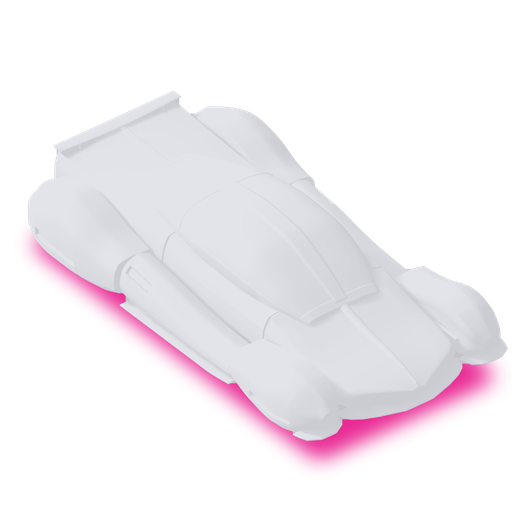
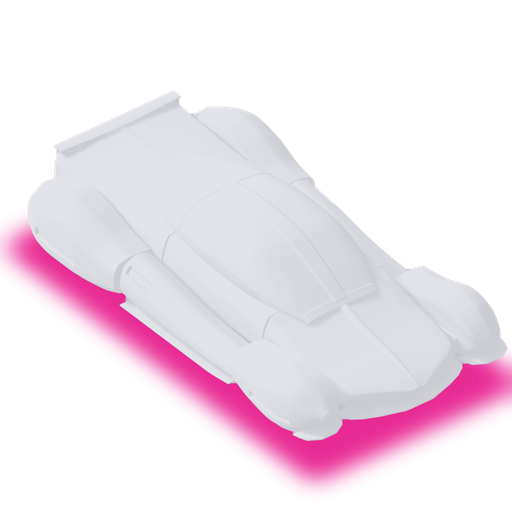
garage: wider Exotic underglow diagram; shop list ties break by price; Front Body and Rear Body first in the rails (installed in v3)

Changed region(s): [[0.0, 0.4062, 1.0, 0.9688]]

diff --git a/scripts/exotic_category/ui_shop_order/build.py b/scripts/exotic_category/ui_shop_order/build.py
@@ -1,0 +1,58 @@
+"""Shop list order and rail order for body parts: builds the after-source and the guarded installer.
+
+    py -3 scripts/exotic_category/ui_shop_order/build.py
+
+Independent of the GarageUI chain (ui_artwork, ui_dealership, ui_underglow): it changes another script.
+
+What changes:
+  GarageModuleCardViewModel  the shop list breaks a tie by Price before id, so the standard, GT and EVO
+                             versions of a body part read cheapest first (mesh/INTEGRATION.md, "Body parts
+                             behave like core parts"). Core modules are unaffected: their variants already
+                             differ by VariantOrder, which is compared first.
+  Config                     ModuleArtwork.FrontBody SortOrder 32 and RearBody SortOrder 34, so the Build and
+                             Customise rails list Front Body and Rear Body before the engines. Only Exotic has
+                             those slots. ROLLBACK removes the two attributes, which returns the code defaults
+                             (72 and 74), the values they had before.
+"""
+import io
+import json
+import os
+
+HERE = os.path.dirname(os.path.abspath(__file__))
+BEFORE = os.path.join(HERE, "..", "stage_a", "client", "after", "GarageModuleCardViewModel.lua")
+PLACE_ID = 93959280828322
+OLD = ("\t\tif variantOrder[a.Variant]~=variantOrder[b.Variant] then return variantOrder[a.Variant]<variantOrder[b.Variant] end\n"
+       "\t\treturn a.Id<b.Id\n\tend)\n\treturn rows\nend\n\nreturn ViewModel")
+NEW = ("\t\tif variantOrder[a.Variant]~=variantOrder[b.Variant] then return variantOrder[a.Variant]<variantOrder[b.Variant] end\n"
+       "\t\tif a.Price~=b.Price then return a.Price<b.Price end\n"
+       "\t\treturn a.Id<b.Id\n\tend)\n\treturn rows\nend\n\nreturn ViewModel")
+
+
+def djb2(text):
+    x = 5381
+    for b in text.encode("utf-8"):
+        x = (x * 33 + b) % 4294967296
+    return x
+
+
+def main():
+    before = io.open(BEFORE, encoding="utf-8", newline="").read()
+    if before.count(OLD) != 1:
+        raise SystemExit("anchor found %d times" % before.count(OLD))
+    after = before.replace(OLD, NEW)
+    for folder, text in (("before", before), ("after", after)):
+        os.makedirs(os.path.join(HERE, folder), exist_ok=True)
+        io.open(os.path.join(HERE, folder, "GarageModuleCardViewModel.lua"), "w", encoding="utf-8", newline="").write(text)
+    data = json.dumps({"placeId": PLACE_ID, "base": "scripts/exotic_category/ui_shop_order/",
+                       "scripts": {"GarageModuleCardViewModel": {"path": ["ReplicatedStorage", "Modules", "Game", "UI", "GarageModuleCardViewModel"],
+                                                                 "before": djb2(before), "after": djb2(after)}},
+                       "attributes": [["ModuleArtwork/FrontBody", "SortOrder", 32], ["ModuleArtwork/RearBody", "SortOrder", 34]]}, sort_keys=True)
+    engine = io.open(os.path.join(HERE, "..", "ui_artwork", "installer_engine.lua"), encoding="utf-8").read()
+    for mode in ("AUDIT", "APPLY", "ROLLBACK"):
+        out = 'local MODE = "%s"\nlocal DATA = game:GetService("HttpService"):JSONDecode([==[%s]==])\n%s' % (mode, data, engine)
+        io.open(os.path.join(HERE, "out_%s.lua" % mode.lower()), "w", encoding="utf-8", newline="\n").write(out)
+    print(json.dumps({"before": "%08x" % djb2(before), "after": "%08x" % djb2(after)}))
+
+
+if __name__ == "__main__":
+    main()

diff --git a/scripts/exotic_category/mesh/compose_diagrams.py b/scripts/exotic_category/mesh/compose_diagrams.py
@@ -87,9 +87,9 @@ def drawn(slot):
             pen.ellipse([base[0] - rad, base[1] - rad, base[0] + rad, base[1] + rad], fill=255)
         layer = layer.filter(ImageFilter.GaussianBlur(5)).point(lambda v: 255 if v > 110 else 0).filter(ImageFilter.GaussianBlur(1.5))
         return layer, False
-    corners = [(-5.4, -1.9, -11.6), (5.4, -1.9, -11.6), (5.4, -1.9, 11.0), (-5.4, -1.9, 11.0)]
+    corners = [(-6.3, -2.3, -12.4), (6.3, -2.3, -12.4), (6.3, -2.3, 12.0), (-6.3, -2.3, 12.0)]
     pen.polygon([project(c) for c in corners], fill=255)
-    return layer.filter(ImageFilter.GaussianBlur(20)), True
+    return layer.filter(ImageFilter.GaussianBlur(22)), True
 
 
 def main():

diff --git a/scripts/exotic_category/ui_underglow/build.py b/scripts/exotic_category/ui_underglow/build.py
@@ -20,7 +20,7 @@ HERE = os.path.dirname(os.path.abspath(__file__))
 BEFORE = os.path.join(HERE, "..", "ui_dealership", "after", "GarageUI.lua")
 PLACE_ID = 93959280828322
 CATEGORY = "exotic"
-UNDERGLOW = "rbxassetid://98896438353266"
+UNDERGLOW = "rbxassetid://137313031963928"
 THRUST = "rbxassetid://127812752445338"
 OLD = 'Image=navIcon("UnderglowSidebarIcon")'
 KEY = '"UnderglowSidebarIcon_"..tostring(currentCategory() and currentCategory().CategoryId)'
